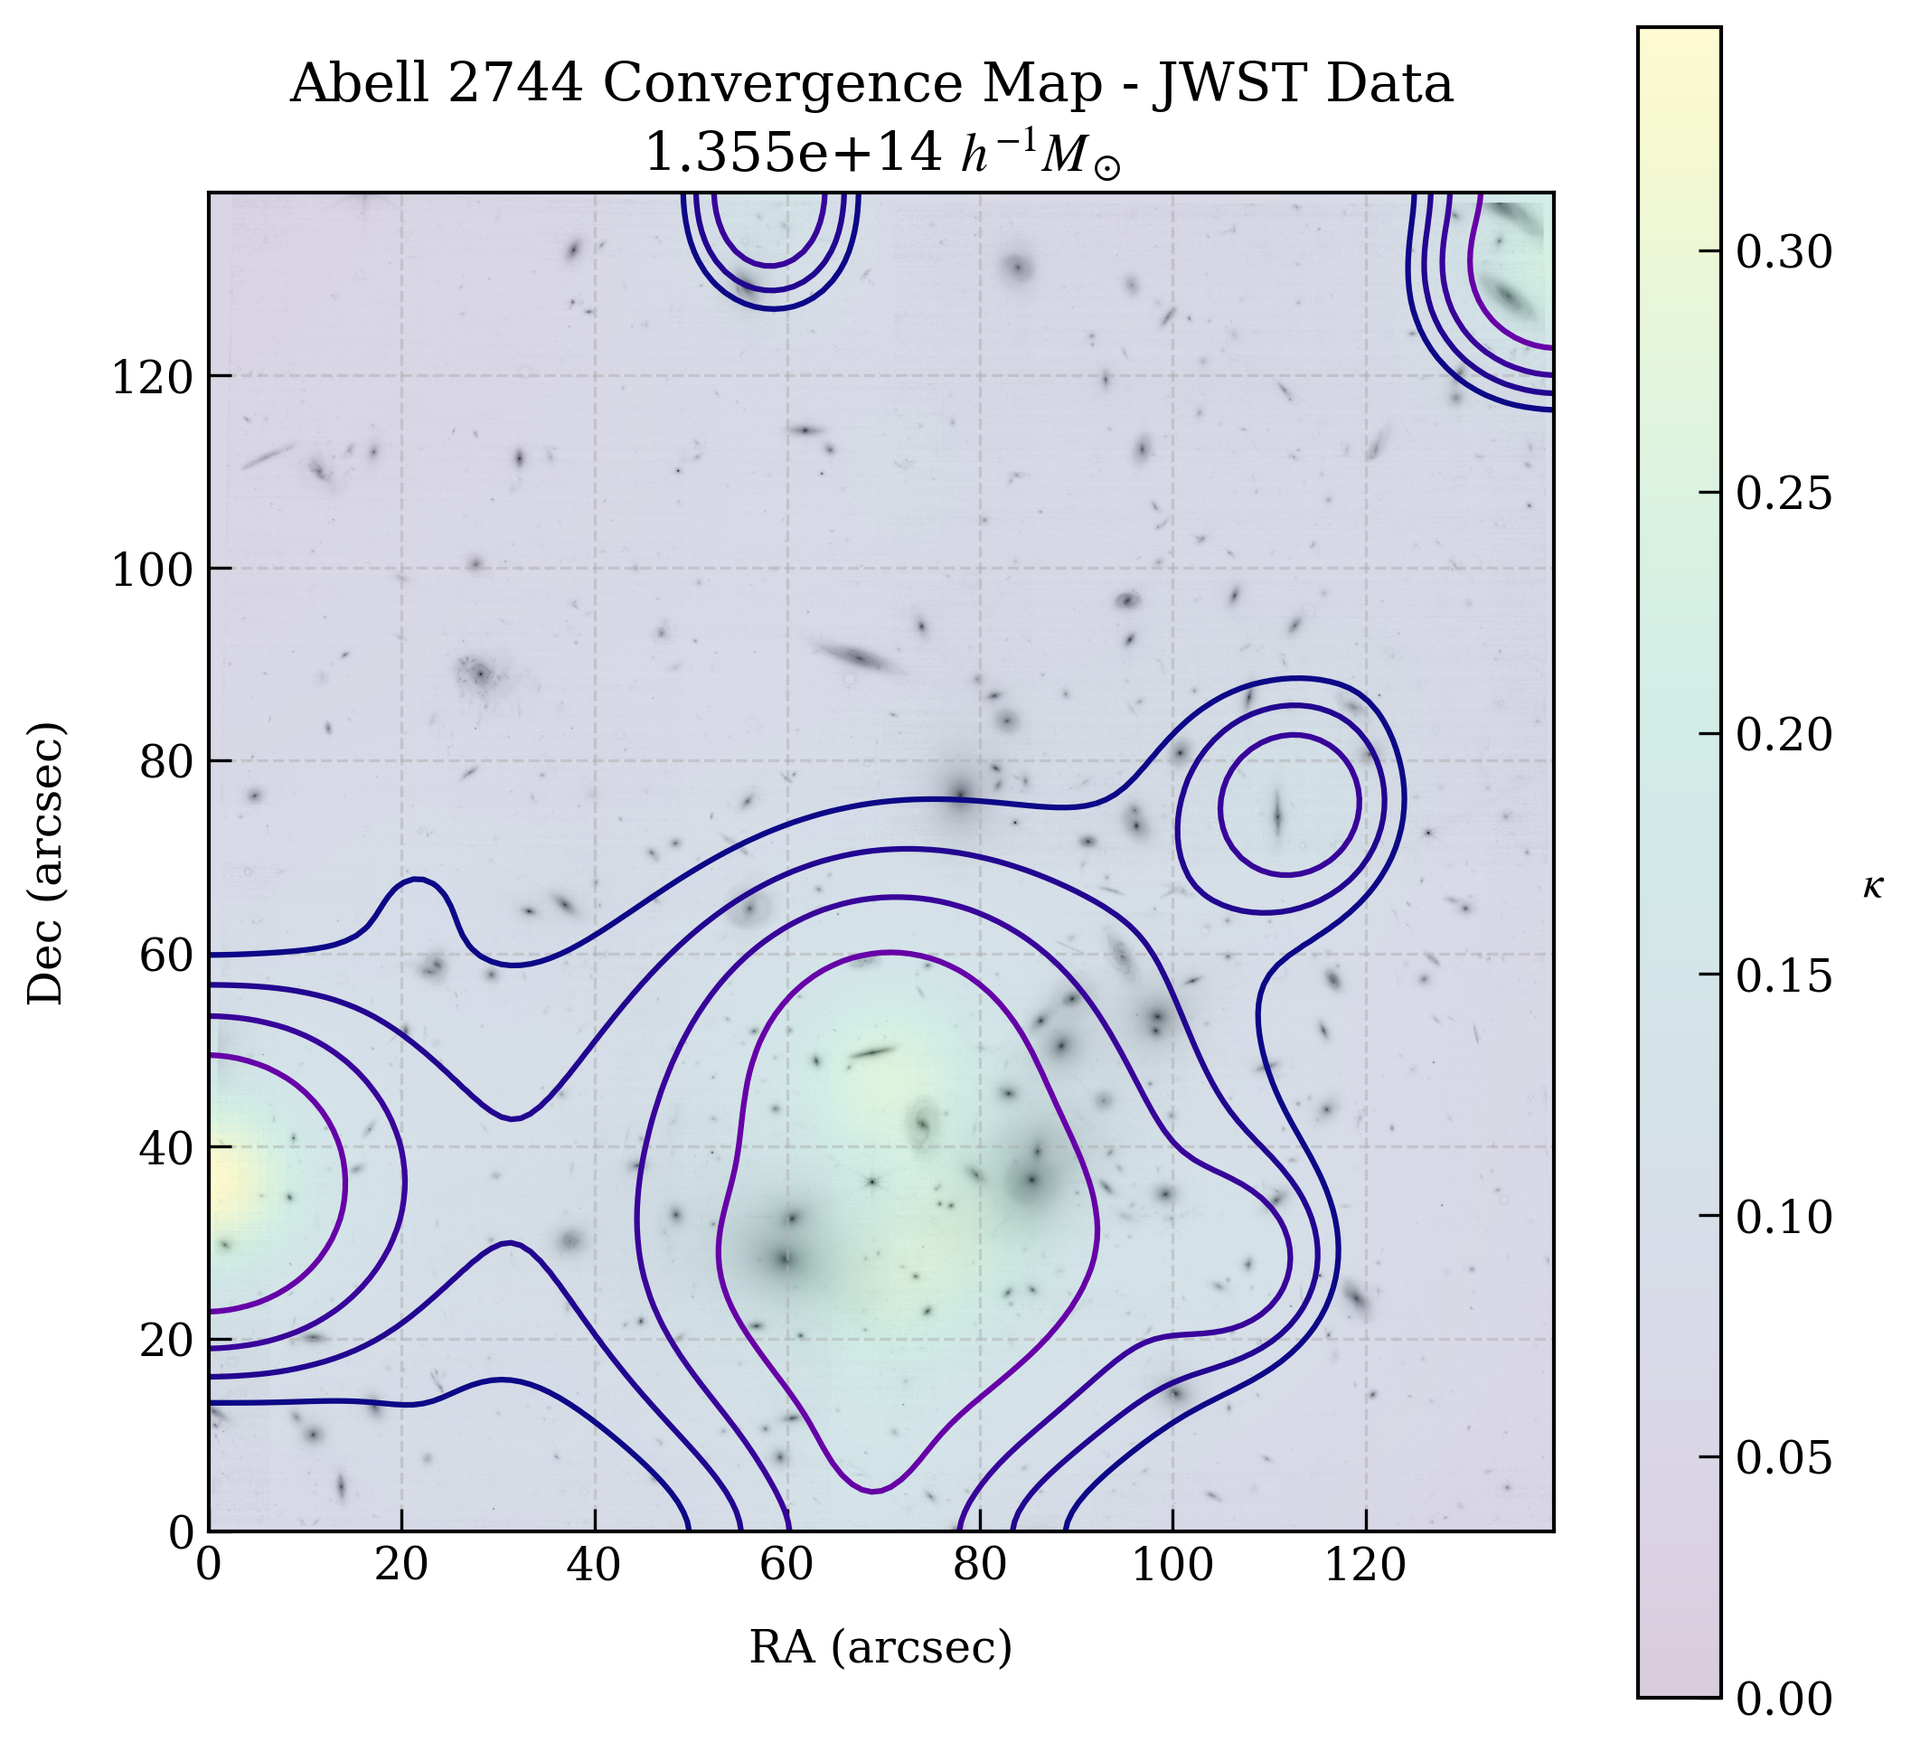
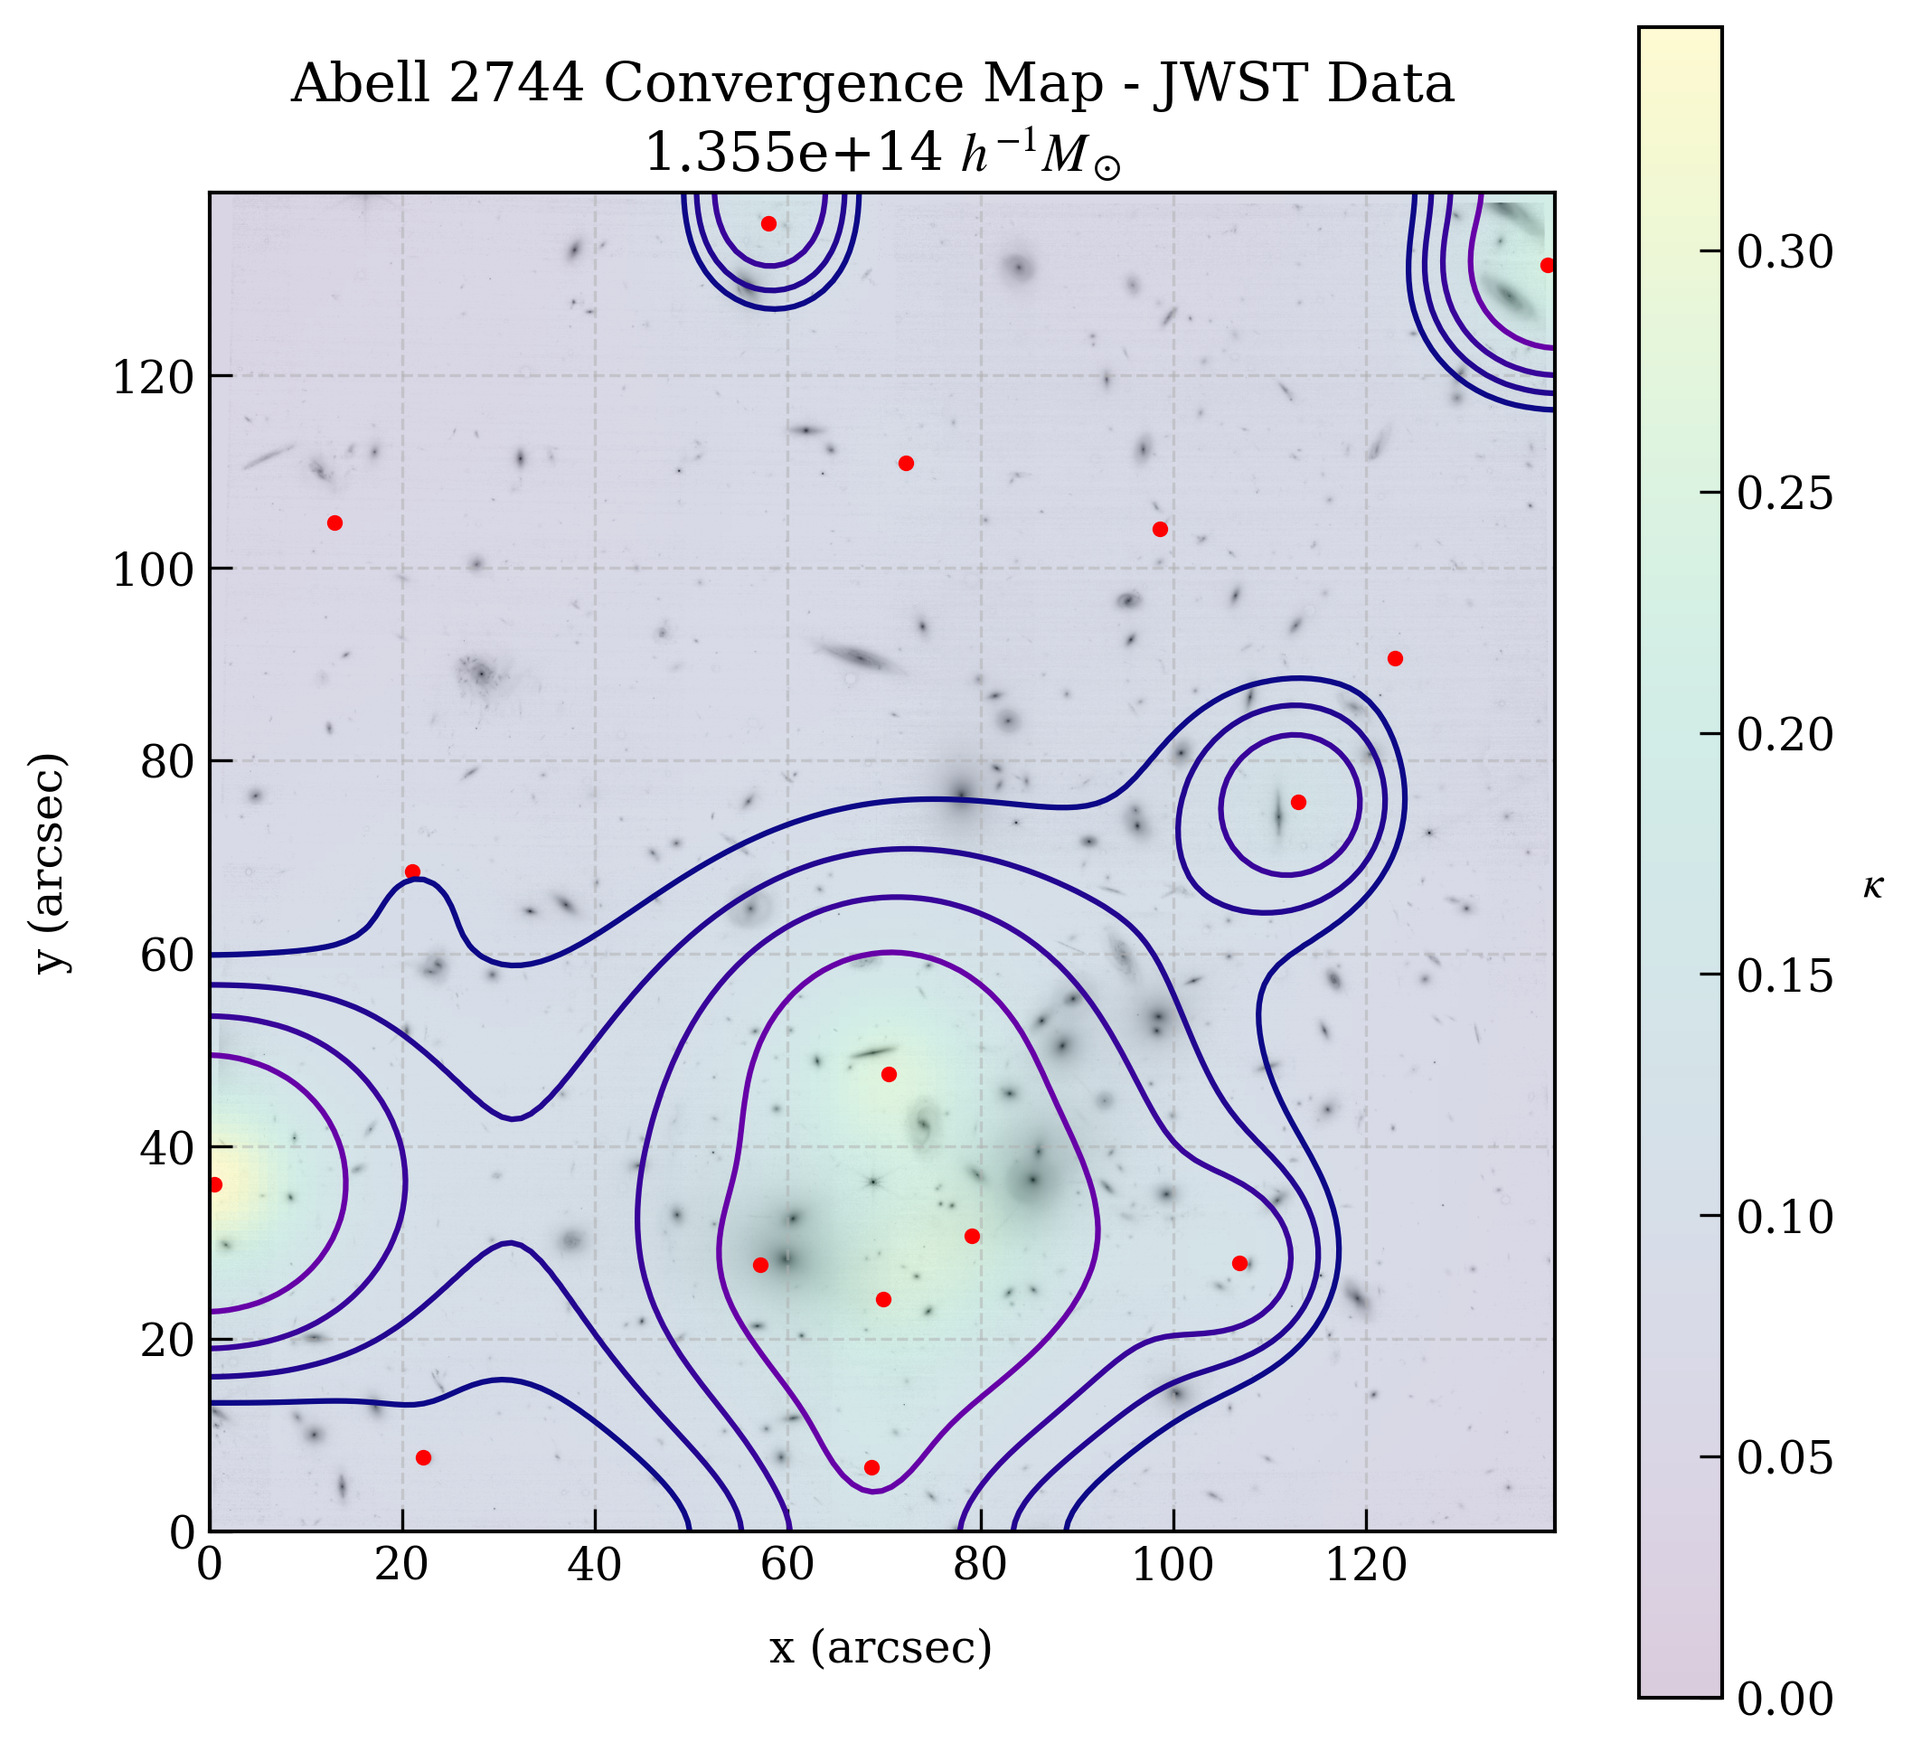
Wrote testing function for multidark clusters

diff --git a/mdark.py b/mdark.py
@@ -3,10 +3,49 @@ import matplotlib.pyplot as plt
 import time
 import pandas as pd
 from astropy.visualization import hist as fancy_hist
+import pipeline
+import utils
+import astropy.units as u
+from astropy.cosmology import Planck15 as cosmo
 
 dir = 'MDARK/'
 column_names = ['MainHaloID', ' Total Mass', ' Redshift', 'Halo Number', ' Mass Fraction', ' Characteristic Size'] # Column names for the key files
 plt.style.use('scientific_presentation.mplstyle') # Use the scientific presentation style sheet for all plots
+
+# Physical constants
+c = 3 * 10**8 # Speed of light in m/s
+G = 6.674 * 10**-11 # Gravitational constant in m^3/kg/s^2
+h = 0.7 # Hubble constant
+
+class Halo:
+    def __init__(self, x, y, z, c, mass):
+        self.x = x
+        self.y = y
+        self.z = z
+        self.c = c
+        self.mass = mass
+    
+    def calc_R200(self, z):
+        omega_crit = 0.27
+        omega_z = 0.27 * (1 + z)**3 / (0.27 * (1 + z)**3 + 0.73)
+        R200 = (1.63 * 10**-2) * (self.mass / 0.69)**(1/3) * (omega_crit / omega_z)**(1/2) * (1 + z)**(3/2) # In Kpc
+        # Convert to arcseconds
+        # TBD - involves cosmology based on z
+        return R200
+    
+    def build_lenses(self, z, R200):
+        z_s = 0.8
+        # Given a set of halos, build the lenses
+        # Main computational step is getting the einstein radius for each lens
+        D_s = cosmo.angular_diameter_distance(z_s).to(u.meter)
+        D_ls = cosmo.angular_diameter_distance_z1z2(z, z_s).to(u.meter)
+
+        mass = self.mass / u.M_sun # Mass in kilograms
+        R200 = R200 * u.kpc # R200 in meters
+
+        eR = (2 * np.pi * G) / (c**2) * (D_ls / D_s) * (mass / R200) 
+
+        return pipeline.Lens(self.x, self.y, eR, np.zeros_like(self.x))
 
 
 def fix_file(z):
@@ -106,8 +145,105 @@ def count_clusters(z):
     print('Number of clusters with mass > 10^14 M_sun: {}'.format(count1))
     print('Number of clusters with mass > 10^14 M_sun and more than 1 halo: {}'.format(count2))
 
+
+def find_halos(ID, z):
+    # Given a cluster ID, locate the cluster in the data
+    # and return the relevant information
+    # This needs to be fast 
+
+    file = dir + 'Halos_{}.MDARK'.format(z)
+    chunks = chunk_data(file)
+    # Find all the halos with the given ID
+    output = []
+    for chunk in chunks:
+        mask = chunk['MainHaloID'] == ID
+        if np.any(mask):
+            output.append(chunk[mask])
+    # Flatten the list
+    output = pd.concat(output)
+    
+    # Now we have the correct objects, we can return the relevant information
+    xhalo = output['x'].values
+    yhalo = output['y'].values
+    zhalo = output['z'].values
+    chalo = output['concentration_NFW'].values
+    masshalo = output['HaloMass'].values
+
+    halos = Halo(xhalo, yhalo, zhalo, chalo, masshalo)
+
+    return halos
+
+
+def choose_ID(z, mass_range, min_halos):
+    # Given a set of criteria, choose a cluster ID
+
+    file = dir + 'fixed_key_{}.MDARK'.format(z)
+    chunks = chunk_data(file)
+
+    # Choose a random cluster with mass in the given range
+    # and more than 1 halo
+    options = []
+    for chunk in chunks:
+        mask = (chunk[' Total Mass'].values > mass_range[0]) & (chunk[' Total Mass'].values < mass_range[1]) & (chunk[' Halo Number'].values > min_halos)        
+        if np.any(mask):
+            options.append(chunk[mask]['MainHaloID'].values)
+    # Flatten the list
+    options = np.concatenate(options)
+    # Choose one of the clusters at random
+    IDs = np.random.choice(options)
+
+    return IDs
+    
+    # Now we have the correct objects, we can return the relevant information
+    
+
+def run_analysis(halos):
+    '''
+    Given a set of halos, run the analysis
+    This involves the following steps
+
+    1. Compute the einstein radius for each cluster, from 
+        M200 and R200
+    2. Generate a set of background galaxies, with 
+        random positions and redshifts. Apply a shear
+        and flexion to each galaxy. 
+    3. Run these source galaxies through the pipeline. This
+        will generate a list of candidate lenses, which 
+        will be compared to the input list of halos. 
+    4. Generate a convergence map from the candidate lenses, 
+        compute the mass of each lens, and compare to the
+        input mass.
+    5. Generate a ROC curve for the pipeline
+    6. Generate a confusion matrix
+    7. Save the results to a file
+    '''
+    pass
+
+
+def run_bulk_analysis():
+    # Get a set of cluster IDs and run the analysis on each. 
+    pass
+
+
+def plot_results():
+    # Plot the results of the analysis
+    pass
+
+
 if __name__ == '__main__':
     zs = [0.194, 0.221, 0.248, 0.276]
+
+    start = time.time()
+    ID = choose_ID(0.194, [1e14, 1e15], 1)
+    halos = find_halos(ID, 0.194)
+    R200 = halos.calc_R200(0.194)
+    lenses = halos.build_lenses(0.194, R200)
+    print(lenses.x, lenses.y, lenses.te)
+    stop = time.time()
+    print('Time taken: {}'.format(stop - start))
+
+
+    raise SystemExit
 
     for z in zs:
         count_clusters(z)

diff --git a/pipeline.py b/pipeline.py
@@ -37,31 +37,10 @@ class Source:
         phi = np.arctan2(self.f2, self.f1)
         gamma = np.sqrt(self.e1**2 + self.e2**2)
         flexion = np.sqrt(self.f1**2 + self.f2**2)
+        gflexion = np.sqrt(self.g1**2 + self.g2**2)
         r = gamma / flexion # A characteristic distance from the source
         te = 2 * gamma * np.abs(r) # The Einstein radius of the lens
-        
-        '''
-        # Let's try something - also include the negative lenses - this will double the number of lenses
-        r2 = -gamma / flexion
-        te2 = -2 * gamma * np.abs(r)
 
-        # These are the positive predictions
-        xl = np.array(self.x + r * np.cos(phi))
-        yl = np.array(self.y + r * np.sin(phi))
-        te = np.array(te)
-
-        # These are the negative predictions
-        xl2 = np.array(self.x + r2 * np.cos(phi))
-        yl2 = np.array(self.y + r2 * np.sin(phi))
-        te2 = np.array(te2)
-
-        # Combine the positive and negative predictions
-        xl = np.concatenate((xl, xl2))
-        yl = np.concatenate((yl, yl2))
-        te = np.concatenate((te, te2))
-        
-        return Lens(xl, yl, te, np.empty_like(xl))
-        '''
 
         return Lens(np.array(self.x + r * np.cos(phi)), np.array(self.y + r * np.sin(phi)), np.array(te), np.empty_like(self.x))
 
@@ -84,13 +63,13 @@ class Source:
             sin2phi = 2*cosphi*sinphi
             cos3phi = cosphi*cosphi*cosphi - 3*cosphi*sinphi*sinphi
             sin3phi = 3*cosphi*cosphi*sinphi - sinphi*sinphi*sinphi
-      
+
             self.e1 += -lenses.te[i]/(2*r)*cos2phi
             self.e2 += -lenses.te[i]/(2*r)*sin2phi
             self.f1 += -dx*lenses.te[i]/(2*r*r*r)
             self.f2 += -dy*lenses.te[i]/(2*r*r*r)
-            self.g1 += (3 * lenses.te[i]) / (2 * r**2) * cos3phi
-            self.g2 += (3 * lenses.te[i]) / (2 * r**2) * sin3phi
+            self.g1 += (3*lenses.te[i]) / (2*r**2) * cos3phi
+            self.g2 += (3*lenses.te[i]) / (2*r**2) * sin3phi
 
 
 class Lens:
@@ -130,10 +109,10 @@ class Lens:
 
     def filter_lens_positions(self, sources, xmax, threshold_distance=0.1):
         # Filter out lenses that are too close to sources or too far from the center
-        distances_to_sources = np.sqrt((self.x[:, None] - sources.x)**2 + (self.y[:, None] - sources.y)**2)
-        too_close_to_sources = (distances_to_sources < threshold_distance).any(axis=1)
+        distances_to_sources = np.sqrt((self.x - sources.x)**2 + (self.y - sources.y)**2)
+        too_close_to_sources = distances_to_sources < threshold_distance
         too_far_from_center = np.sqrt(self.x**2 + self.y**2) > 2 * xmax
-        zero_te_indices = (np.abs(self.te) < 10**-3)
+        zero_te_indices = np.abs(self.te) < 10**-3
 
         valid_indices = ~(too_close_to_sources | too_far_from_center | zero_te_indices)        
         self.x, self.y, self.te, self.chi2 = self.x[valid_indices], self.y[valid_indices], self.te[valid_indices], self.chi2[valid_indices]
@@ -360,13 +339,14 @@ def print_step_info(flags,message,lenses,reducedchi2):
 
 
 def chi2wrapper(guess, params):
-    # Wrapper function for chi2 to allow for minimization
+    # Wrapper function for chi2 to allow for minimization for a single lens object
     lenses = Lens(guess[0], guess[1], guess[2], [0])
     return calc_raw_chi2(params[0],lenses, params[1])
 
 
 def chi2wrapper2(guess, params):
     # Wrapper function for chi2 to allow constrained minimization - only the einstein radii are allowed to vary
+    # This time, the lens object contains the full set of lenses
     lenses = Lens(params[0], params[1], guess, np.empty_like(params[0]))
     dof = calc_degrees_of_freedom(params[2], lenses, params[3])
     return calc_raw_chi2(params[2],lenses, params[3]) / dof - 1
@@ -430,7 +410,7 @@ def fit_lensing_field(sources, xmax, flags = False, use_flags = [True, True, Tru
     # If the merger threshold is too small, set it to 1
     if merger_threshold < 1:
         merger_threshold = 1
-    lenses.merge_close_lenses(merger_threshold=10)
+    lenses.merge_close_lenses(merger_threshold=10) #This is a placeholder value
     reducedchi2 = lenses.update_chi2_values(sources, use_flags)
     print_step_info(flags, "After Merging:", lenses, reducedchi2)
 

diff --git a/data_handler.py b/data_handler.py
@@ -9,7 +9,6 @@ from utils import calculate_mass, mass_sheet_transformation, print_progress_bar
 from astropy.visualization import hist as fancy_hist
 import scipy.ndimage
 from matplotlib.path import Path
-from scipy import ndimage
 
 plt.style.use('scientific_presentation.mplstyle') # Use the scientific presentation style sheet for all plots
 
@@ -72,20 +71,28 @@ def get_img_data(fits_file_path) -> np.ndarray:
     return img_data, header
 
 
-def get_file_paths(cluster='a2744', field='cluster'):
+def get_file_paths(cluster='a2744', instrument='HST', field='cluster'):
     if cluster == 'a2744':
-        if field == 'cluster':
-            fits_file_path = 'Data/color_hlsp_frontier_hst_acs-30mas_abell2744_f814w_v1.0-epoch2_f606w_v1.0_f435w_v1.0_drz_sci.fits'
-            csv_file_path = 'Data/a2744_clu_lenser.csv'
-            vmax = 1 # Set the maximum value for the image normalization
-            dx = 115
-            dy = 55
-        elif field == 'parallel':
-            fits_file_path = 'Data/hlsp_frontier_hst_acs-30mas-selfcal_abell2744-hffpar_f435w_v1.0_drz.fits'
-            csv_file_path = 'Data/a2744_par_lenser.csv'
-            vmax = 0.1 # Set the maximum value for the image normalization
-            dx = 865
-            dy = 400
+        if instrument == 'HST':
+            if field == 'cluster':
+                fits_file_path = 'Data/color_hlsp_frontier_hst_acs-30mas_abell2744_f814w_v1.0-epoch2_f606w_v1.0_f435w_v1.0_drz_sci.fits'
+                csv_file_path = 'Data/a2744_clu_lenser.csv'
+                vmax = 1 # Set the maximum value for the image normalization
+                dx = 115
+                dy = 55
+            elif field == 'parallel':
+                fits_file_path = 'Data/hlsp_frontier_hst_acs-30mas-selfcal_abell2744-hffpar_f435w_v1.0_drz.fits'
+                csv_file_path = 'Data/a2744_par_lenser.csv'
+                vmax = 0.1 # Set the maximum value for the image normalization
+                dx = 865
+                dy = 400
+        elif instrument == 'JWST':
+            if field == 'cluster':
+                fits_file_path = Path('Data/JWST/Cluster Field/Image Data/') / 'jw02756-o003_t001_nircam_clear-f115w_i2d.fits'
+                csv_file_path = Path('Data/JWST/Cluster Field/Catalogs/') / 'F115W_flexion.pkl'
+                vmax = 100
+                dx = 0
+                dy = 0
     
     return fits_file_path, csv_file_path, vmax, dx, dy
 

diff --git a/test_pipeline.py b/test_pipeline.py
@@ -123,13 +123,11 @@ def visualize_pipeline_steps(Nlens, Nsource, xmax, use_flags):
     reducedchi2 = lenses.update_chi2_values(sources, use_flags)
     _plot_results(xmax, lenses, sources, true_lenses, reducedchi2, 'Initial Lens Positions', ax=axarr[0,0])
 
-    
     # Step 2: Optimize guesses with local minimization
     lenses.optimize_lens_positions(sources, use_flags)
     reducedchi2 = lenses.update_chi2_values(sources, use_flags)
     _plot_results(xmax, lenses, sources, true_lenses, reducedchi2, 'Optimized Lens Positions', ax=axarr[0,1], legend=False)
-    
-    
+
     # Step 3: Filter out lenses that are too far from the source population
     lenses.filter_lens_positions(sources, xmax)
     reducedchi2 = lenses.update_chi2_values(sources, use_flags)
@@ -279,4 +277,4 @@ def accuracy_tests(use_shear, use_flexion, use_g_flexion):
 
 
 if __name__ == '__main__':
-    visualize_pipeline_steps(1, 10, 10, [True, True, True])
+    visualize_pipeline_steps(1, 10, 5, [True, True, True])

diff --git a/quick_jwst_reader.py b/quick_jwst_reader.py
@@ -158,7 +158,7 @@ def reconstructor():
     z_source = 0.5
     
     warnings.filterwarnings("ignore", category=RuntimeWarning) # Beginning of pipeline will generate expected RuntimeWarnings
-    naive_run()
+    # naive_run()
 
     # Load in the data
     lenses = pipeline.Lens(*np.load('Data/JWST/lenses.npy', allow_pickle=True))
@@ -198,8 +198,10 @@ def reconstructor():
     color_bar = plt.colorbar(color_map_overlay, ax=ax)
     color_bar.set_label(r'$\kappa$', rotation=0, labelpad=10)
 
-    ax.set_xlabel('RA (arcsec)')
-    ax.set_ylabel('Dec (arcsec)')
+    ax.scatter(lenses.x, lenses.y, s=10, color='red', label='Lensed Galaxies')
+
+    ax.set_xlabel('x (arcsec)')
+    ax.set_ylabel('y (arcsec)')
     mass = utils.calculate_mass(kappa, z_lens, z_source, 1)
 
     ax.set_title('Abell 2744 Convergence Map - JWST Data \n' + f'{mass:.3e}' + r' $h^{-1} M_\odot$')

diff --git a/quick_test.py b/quick_test.py
@@ -1,0 +1,20 @@
+import numpy as np
+import matplotlib.pyplot as plt 
+
+
+
+x = np.linspace(0, 10, 100)
+# Put source at origin, put lens at x=5
+lens_x = 5
+eR = 1
+r = x - lens_x
+
+true_flexion = eR / (2 * lens_x**2)
+true_G_flexion = 3* eR / (2 * lens_x**2)
+
+eR_F = true_flexion * r**2 * 2
+eR_G = true_G_flexion * r**3 * 2 / 3
+
+plt.plot(x, eR_F, label='Flexion')
+plt.plot(x, eR_G, label='G-Flexion')
+plt.show()
